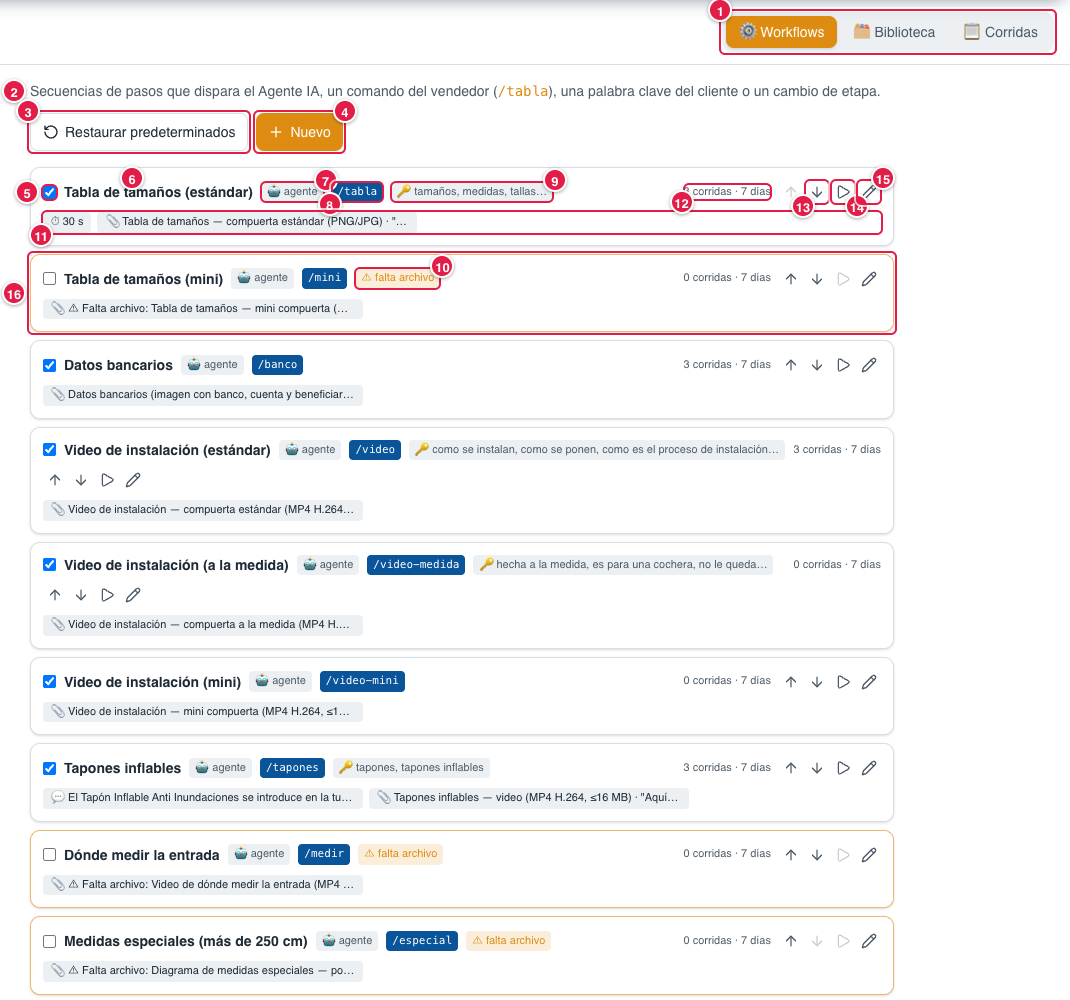
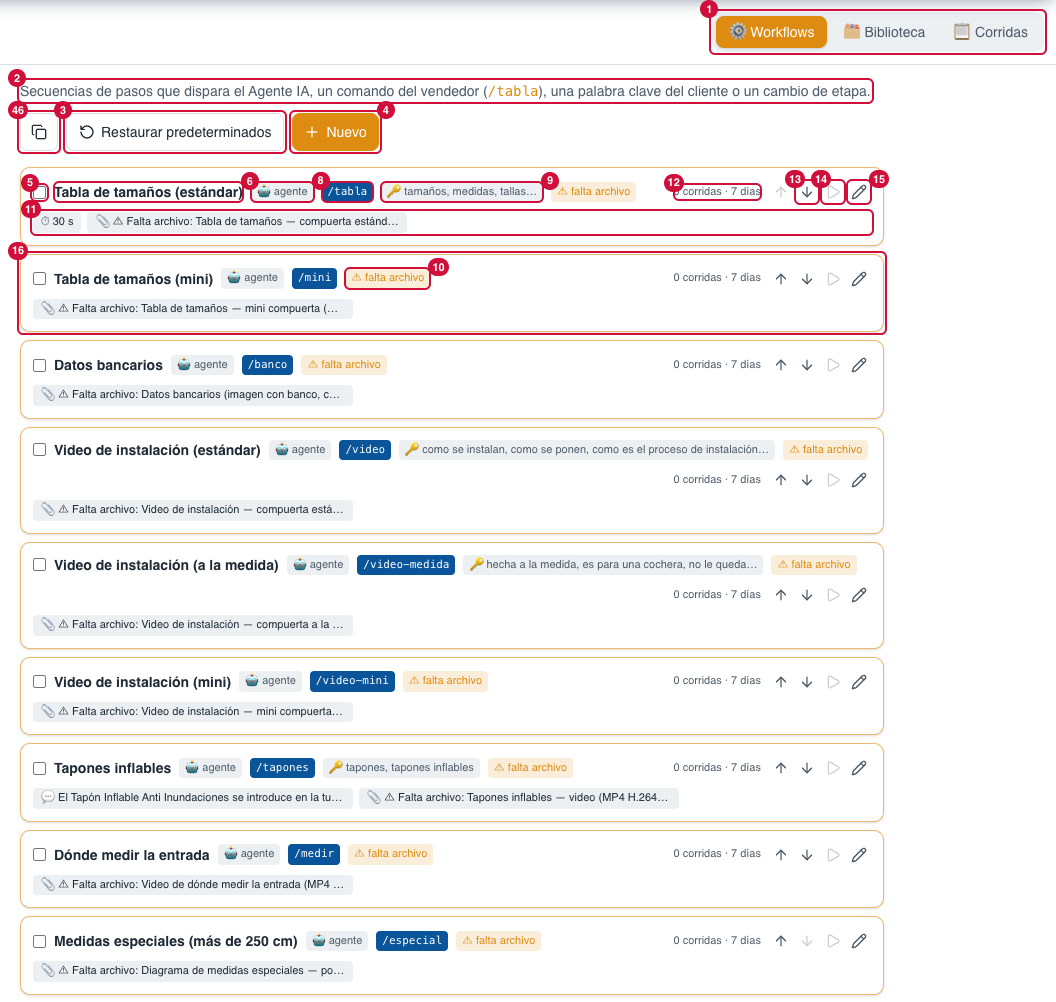
feat(automatizacion): ícono «Copiar» para copiar todos los workflows (como las FAQs)
Pedido del dueño: copiar las automatizaciones para pegarlas en una IA y pedir mejoras. Ícono
solo (sin texto) junto a «Restaurar predeterminados», del mismo alto, para no ocupar espacio.
Copia TODOS los workflows con el formato de las FAQs: un guion por workflow (sin números),
encendido/apagado (y si le falta archivo), con qué se dispara (Agente IA, comando, palabras
clave, etapa por su nombre), «Cuándo lo usa el Agente IA» y los pasos en orden con los textos
completos. `workflowsAsText` (lib/workflows/as-text.ts, con pruebas); CopyButton gana `iconOnly`.

Sin migración. Docs: mapa-crm (Automatización 46 + captura 10-auto-workflows rehecha).

diff --git a/lib/workflows/as-text.test.ts b/lib/workflows/as-text.test.ts
@@ -1,0 +1,69 @@
+import { describe, expect, it } from "vitest";
+import { workflowsAsText, type WorkflowForText } from "./as-text";
+
+const base: WorkflowForText = {
+  name: "Tabla de tamaños (estándar)",
+  enabled: true,
+  agentDescription: "Cuando el cliente pregunta por tamaños.",
+  triggerAgent: true,
+  triggerCommand: "/tamaños",
+  triggerKeywords: ["tamaños", "medidas"],
+  triggerStage: null,
+  steps: [
+    { kind: "wait", seconds: 18 },
+    { kind: "send_media", assetId: "a1", title: "tabla-tamanos-estandar.png", caption: "Aquí le comparto una foto.\nCon los tamaños." },
+    { kind: "send_text", text: "¿Cuánto mide su entrada?\n\nEn centímetros." },
+  ],
+  missingMedia: [],
+};
+
+const labels = (key: string) => (key === "cerca_compra" ? "Cerca de compra" : key);
+
+describe("workflowsAsText (botón Copiar de Workflows)", () => {
+  it("cada workflow con guion y sin números; disparadores, cuándo lo usa el agente y los pasos completos en orden", () => {
+    expect(workflowsAsText([base], labels)).toBe(
+      [
+        "- Tabla de tamaños (estándar) — encendido",
+        "  Se dispara con: el Agente IA · comando del vendedor /tamaños · palabras clave del cliente: tamaños, medidas",
+        "  Cuándo lo usa el Agente IA: Cuando el cliente pregunta por tamaños.",
+        "  Pasos:",
+        "    - Esperar 18 s",
+        "    - Archivo: tabla-tamanos-estandar.png",
+        "      Texto del archivo: Aquí le comparto una foto.",
+        "        Con los tamaños.",
+        "    - Texto: ¿Cuánto mide su entrada?",
+        "",
+        "      En centímetros.",
+      ].join("\n"),
+    );
+  });
+
+  it("apagados, falta de archivo, etapa por su nombre, sin agente y una línea en blanco entre workflows", () => {
+    const off: WorkflowForText = {
+      ...base,
+      name: "Datos bancarios",
+      enabled: false,
+      triggerAgent: false,
+      triggerCommand: null,
+      triggerKeywords: [],
+      triggerStage: "cerca_compra",
+      steps: [{ kind: "send_media", assetId: null, title: "datos-bancarios.jpg" }],
+      missingMedia: ["datos-bancarios.jpg"],
+    };
+    const text = workflowsAsText([base, off], labels);
+    expect(text.split("\n\n- ")).toHaveLength(2);
+    expect(text).toContain(
+      "- Datos bancarios — apagado, falta archivo\n  Se dispara con: al entrar a la etapa Cerca de compra\n  Pasos:\n    - Archivo: datos-bancarios.jpg (falta archivo)",
+    );
+    expect(text).not.toContain("Cuándo lo usa el Agente IA: Cuando el cliente pregunta por tamaños.\n  Pasos:\n    - Archivo: datos");
+    expect(text).not.toMatch(/^\d/mu);
+  });
+
+  it("sin disparadores ni pasos lo dice; sin workflows no copia nada", () => {
+    const empty: WorkflowForText = { ...base, triggerAgent: false, triggerCommand: null, triggerKeywords: [], steps: [], enabled: false };
+    expect(workflowsAsText([empty], labels)).toBe(
+      "- Tabla de tamaños (estándar) — apagado\n  Se dispara con: nada (no se dispara solo)\n  Pasos: ninguno",
+    );
+    expect(workflowsAsText([], labels)).toBe("");
+  });
+});

diff --git a/lib/workflows/as-text.ts b/lib/workflows/as-text.ts
@@ -1,0 +1,61 @@
+// Botón «Copiar» de Automatización › Workflows (28-sep-2026, pedido del dueño: pegarlos en
+// una IA para mejorarlos). PURO. Igual que las FAQs (faqsAsText): cada workflow con un
+// guion, sin números, su detalle debajo con sangría y una línea en blanco entre workflows.
+// Los pasos van en su orden, también con guion, y los textos COMPLETOS (no recortados).
+import type { StepPayload } from "./steps";
+
+export type WorkflowForText = {
+  name: string;
+  enabled: boolean;
+  agentDescription: string;
+  triggerAgent: boolean;
+  triggerCommand: string | null;
+  triggerKeywords: readonly string[];
+  triggerStage: string | null;
+  steps: readonly StepPayload[];
+  missingMedia: readonly string[];
+};
+
+// Un texto de varios renglones: el primero va junto a la etiqueta y los demás con la
+// sangría de `pad` (así se lee como un solo bloque).
+function block(label: string, text: string, pad: string): string {
+  const lines = text.trim().split(/\r?\n/u).map((line) => line.trimEnd());
+  return [`${label}${lines[0] ?? ""}`, ...lines.slice(1).map((line) => (line ? `${pad}${line}` : ""))].join("\n");
+}
+
+function stepText(step: StepPayload): string {
+  const pad = "      ";
+  switch (step.kind) {
+    case "wait":
+      return `    - Esperar ${step.seconds} s`;
+    case "send_text":
+      return block("    - Texto: ", step.text, pad);
+    case "send_media": {
+      const file = `    - Archivo: ${step.title}${step.assetId ? "" : " (falta archivo)"}`;
+      return step.caption?.trim() ? `${file}\n${block("      Texto del archivo: ", step.caption, "        ")}` : file;
+    }
+  }
+}
+
+/** `stageLabel(clave)` = el nombre de la columna del Embudo (las etapas son editables). */
+export function workflowsAsText(workflows: readonly WorkflowForText[], stageLabel: (key: string) => string): string {
+  return workflows
+    .map((w) => {
+      const state = w.enabled ? "encendido" : w.missingMedia.length > 0 ? "apagado, falta archivo" : "apagado";
+      const triggers = [
+        w.triggerAgent ? "el Agente IA" : null,
+        w.triggerCommand ? `comando del vendedor ${w.triggerCommand}` : null,
+        w.triggerKeywords.length > 0 ? `palabras clave del cliente: ${w.triggerKeywords.join(", ")}` : null,
+        w.triggerStage ? `al entrar a la etapa ${stageLabel(w.triggerStage)}` : null,
+      ].filter((t): t is string => t !== null);
+      const lines = [
+        `- ${w.name.trim()} — ${state}`,
+        `  Se dispara con: ${triggers.length > 0 ? triggers.join(" · ") : "nada (no se dispara solo)"}`,
+      ];
+      if (w.triggerAgent && w.agentDescription.trim()) lines.push(block("  Cuándo lo usa el Agente IA: ", w.agentDescription, "    "));
+      lines.push(w.steps.length > 0 ? "  Pasos:" : "  Pasos: ninguno");
+      for (const step of w.steps) lines.push(stepText(step));
+      return lines.join("\n");
+    })
+    .join("\n\n");
+}

diff --git a/components/ui/copy-button.tsx b/components/ui/copy-button.tsx
@@ -1,6 +1,7 @@
 "use client";
 
-// Botón «Copiar» (Agente IA › Instrucciones y FAQs, 28-sep-2026): copia al portapapeles
+// Botón «Copiar» (Agente IA › Instrucciones y FAQs; Automatización › Workflows con
+// `iconOnly`, solo el ícono, 28-sep-2026): copia al portapapeles
 // el texto que da `getText` al momento del clic y confirma con "Copiado" 2 s. Si el
 // navegador no deja usar el portapapeles moderno, usa el método viejo; si tampoco,
 // avisa "No se pudo copiar".
@@ -37,11 +38,14 @@ async function writeClipboard(text: string): Promise<boolean> {
 export function CopyButton({
   getText,
   title,
+  iconOnly = false,
   className = "",
 }: {
   getText: () => string;
   /** Qué copia (tooltip y lector de pantalla), p. ej. "Copiar todas las FAQs". */
   title: string;
+  /** Solo el ícono (el texto queda para el lector de pantalla y el tooltip). */
+  iconOnly?: boolean;
   className?: string;
 }) {
   const [state, setState] = useState<"idle" | "copied" | "failed">("idle");
@@ -55,20 +59,28 @@ export function CopyButton({
     timer.current = setTimeout(() => setState("idle"), FEEDBACK_MS);
   }
 
+  const label = state === "copied" ? "Copiado" : state === "failed" ? "No se pudo copiar" : "Copiar";
+  const icon = iconOnly ? "size-4" : "size-3.5";
   return (
     <button
       type="button"
       onClick={() => void copy()}
-      title={title}
+      title={state === "idle" ? title : label}
       aria-label={title}
-      className={`inline-flex shrink-0 items-center gap-1.5 rounded border border-black/15 bg-card px-2 py-1 text-xs font-medium text-foreground shadow-sm hover:bg-muted dark:border-white/15 ${className}`}
+      className={`inline-flex shrink-0 items-center text-foreground hover:bg-muted ${
+        iconOnly
+          ? "justify-center rounded-md border p-2.5"
+          : "gap-1.5 rounded border border-black/15 bg-card px-2 py-1 text-xs font-medium shadow-sm dark:border-white/15"
+      } ${className}`}
     >
       {state === "copied" ? (
-        <Check className="size-3.5 text-emerald-600 dark:text-emerald-400" aria-hidden="true" />
+        <Check className={`${icon} text-emerald-600 dark:text-emerald-400`} aria-hidden="true" />
       ) : (
-        <Copy className="size-3.5" aria-hidden="true" />
+        <Copy className={`${icon} ${state === "failed" ? "text-red-600" : ""}`} aria-hidden="true" />
       )}
-      <span aria-live="polite">{state === "copied" ? "Copiado" : state === "failed" ? "No se pudo copiar" : "Copiar"}</span>
+      <span aria-live="polite" className={iconOnly ? "sr-only" : undefined}>
+        {label}
+      </span>
     </button>
   );
 }

diff --git a/app/(app)/automatizacion/_components/automatizacion-panel.tsx b/app/(app)/automatizacion/_components/automatizacion-panel.tsx
@@ -18,6 +18,8 @@ import {
   type WorkflowView,
 } from "@/lib/actions/workflows";
 import type { MediaAssetView } from "@/lib/media-library/service";
+import { CopyButton } from "@/components/ui/copy-button";
+import { workflowsAsText } from "@/lib/workflows/as-text";
 import { useFunnelStages } from "../../_components/funnel-stages-provider";
 import { BibliotecaTab } from "./biblioteca-tab";
 import { RUN_STATUS_LABEL, SKIP_REASON_LABEL, STEP_ICON, stepSummary, TRIGGER_LABEL } from "./labels";
@@ -149,6 +151,15 @@ export function AutomatizacionPanel({
                     Secuencias de pasos que dispara el Agente IA, un comando del vendedor (<code className="text-brand-orange">/tabla</code>), una palabra clave del cliente o un cambio de etapa.
                   </p>
                   <div className="flex gap-2">
+                    {/* Solo el ícono (no estorba): copia TODOS los workflows, igual que las FAQs,
+                        para pegarlos en una IA (pedido del dueño, 28-sep-2026). */}
+                    {items.length > 0 && (
+                      <CopyButton
+                        iconOnly
+                        getText={() => workflowsAsText(items, labelOf)}
+                        title={`Copiar los ${items.length} workflows (pasos, textos y disparadores)`}
+                      />
+                    )}
                     <button type="button" onClick={() => void restore()} className="flex items-center gap-1.5 rounded-md border px-3 py-2 text-sm hover:bg-muted" title="Vuelve a crear los predeterminados que falten">
                       <RotateCcw className="size-4" aria-hidden="true" /> Restaurar predeterminados
                     </button>

diff --git a/docs/mapa-crm.md b/docs/mapa-crm.md
@@ -773,6 +773,7 @@ Los **workflows** (envíos de material), la **Biblioteca** de archivos y las **C
 | 43 | **Hecho** | Salió completo. | Todos |
 | 44 | **Omitido · motivo** | No salió y por qué (p. ej. agente pausado). | Todos |
 | 45 | **Falló · código** | Error al mandar, con el motivo en palabras simples. Si WhatsApp pidió esperar, la corrida **no falla**: espera su turno y sigue. Si el worker se reinició y el archivo había quedado fallido, la corrida se detiene y **no** mueve la etapa. | Todos |
+| 46 | **⧉ Copiar** (ícono junto a Restaurar predeterminados, 3) | Copia **todos** los workflows para pegarlos en una IA y pedir mejoras, igual que las FAQs: cada uno con un guion (sin números), si está encendido o apagado (y si le falta archivo), con qué se dispara (Agente IA, comando, palabras clave, etapa), **Cuándo lo usa el Agente IA** y sus pasos en orden con los textos completos. Al copiar, el ícono cambia a ✓ unos segundos. | Todos |
 
 **Lo cambias tú desde la pantalla:** crear, editar, prender, apagar, ordenar y probar workflows; restaurar los
 predeterminados; subir, renombrar y borrar archivos. Crear, editar, prender, apagar y borrar (y restaurar predeterminados)
@@ -786,7 +787,7 @@ quedan en **Agente IA › Historial** con quién lo hizo.
 **Agente IA aquí:** dispara los workflows que tienen 🤖 agente cuando la conversación coincide con **Cuándo usarlo**;
 en Corridas aparecen con disparador "Agente". Mientras manda uno, en el chat se ve "Agente IA enviando…".
 
-<sub>Para Code: ruta `/automatizacion`; `app/(app)/automatizacion/_components/` (`automatizacion-panel`, `workflow-editor`, `biblioteca-tab`, `labels`); `lib/workflows/`, `lib/actions/workflows.ts`, `lib/media-library/`; diseño `docs/fase-d-diseno.md` §10.</sub>
+<sub>Para Code: ruta `/automatizacion`; `app/(app)/automatizacion/_components/` (`automatizacion-panel`, `workflow-editor`, `biblioteca-tab`, `labels`); `lib/workflows/` (Copiar, 46 = `as-text.ts`), `lib/actions/workflows.ts`, `lib/media-library/`; diseño `docs/fase-d-diseno.md` §10.</sub>
 
 ---
 
